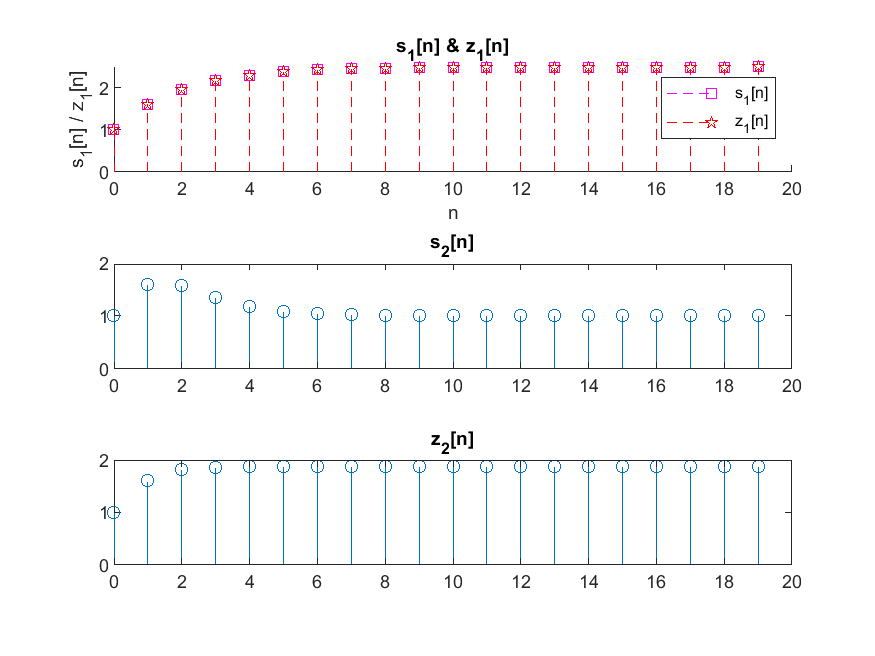
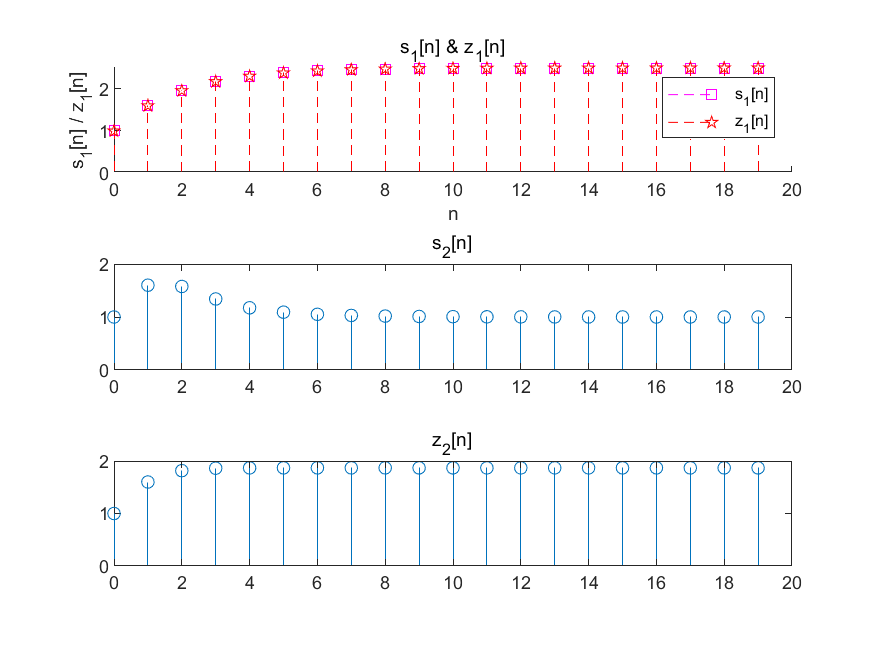
update
加了2.5（f）的图

diff --git a/LAB2/P2_5_d.m b/LAB2/P2_5_d.m
@@ -71,7 +71,21 @@ z2 = conv(h2, u);
 z2 = z2(1:20);
 
 nz = 0:19;
+figure;
+subplot(2, 1, 1);
+stem(nz,z1);
+title('z1[n]');
+xlabel('n');
+ylabel('z1[n]');
 
+subplot(2, 1, 2);
+stem(nz, z2);
+title('z2[n]');
+xlabel('n');
+ylabel('z2[n]');
+
+saveas(gcf, "plots/P2_5_f_out.png");
+close;
 % 2.5(g) -------------------------------
 
 figure;
